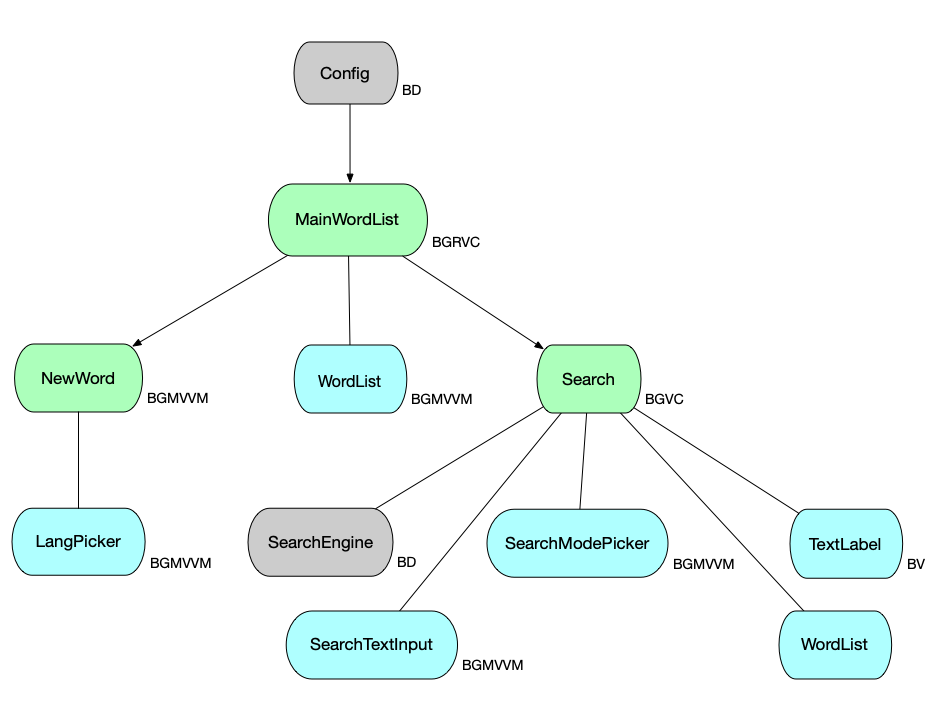
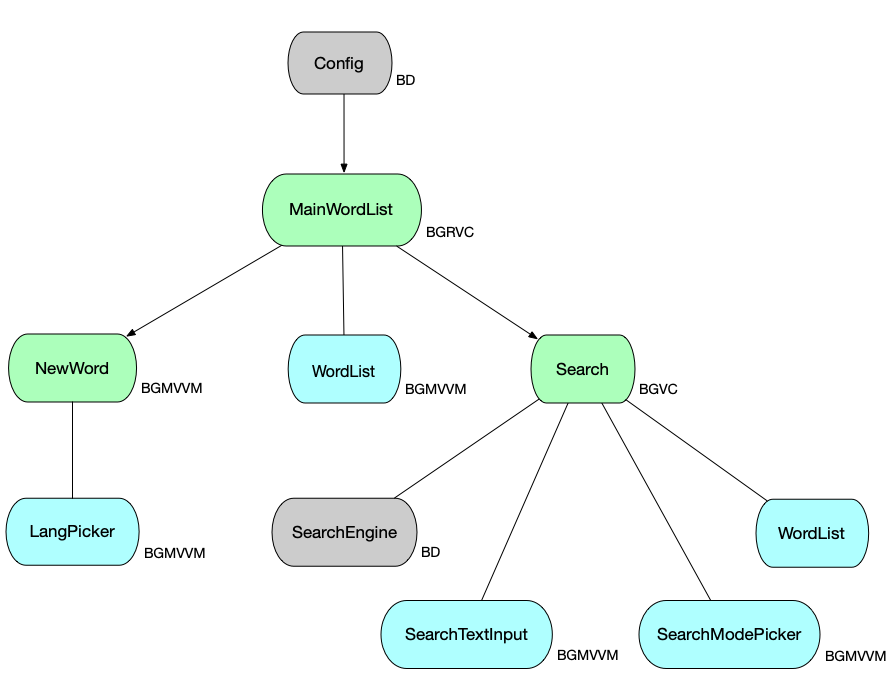
[TZ-4.5]: TextLabel from UI Feature to Design System.

diff --git a/PersonalDictionary/UI/BigFeature/Search/Builder/SearchBuilderImpl.swift b/PersonalDictionary/UI/BigFeature/Search/Builder/SearchBuilderImpl.swift
@@ -12,9 +12,9 @@ final class SearchBuilderImpl: SearchBuilder {
     private let wordListRepository: WordListRepository
     private let wordListBuilder: WordListBuilder
 
-    private let searchTextLabelParams = TextLabelParams(textColor: .darkGray,
-                                                        font: UIFont.systemFont(ofSize: 17),
-                                                        text: NSLocalizedString("No words found", comment: ""))
+    private let searchResultTextLabelParams = TextLabelParams(textColor: .darkGray,
+                                                              font: UIFont.systemFont(ofSize: 17),
+                                                              text: NSLocalizedString("No words found", comment: ""))
     private let appViewConfigs: AppViewConfigs
 
     init(appViewConfigs: AppViewConfigs,
@@ -29,6 +29,6 @@ final class SearchBuilderImpl: SearchBuilder {
         SearchGraphImpl(appViewConfigs: appViewConfigs,
                         wordListRepository: wordListRepository,
                         wordListBuilder: wordListBuilder,
-                        textLabelBuilder: TextLabelBuilderImpl(params: searchTextLabelParams))
+                        searchResultTextLabelParams: searchResultTextLabelParams)
     }
 }

diff --git a/PersonalDictionary/UI/BigFeature/Search/Graph/SearchGraphImpl.swift b/PersonalDictionary/UI/BigFeature/Search/Graph/SearchGraphImpl.swift
@@ -14,7 +14,7 @@ final class SearchGraphImpl: SearchGraph {
     init(appViewConfigs: AppViewConfigs,
          wordListRepository: WordListRepository,
          wordListBuilder: WordListBuilder,
-         textLabelBuilder: TextLabelBuilder) {
+         searchResultTextLabelParams: TextLabelParams) {
         let searchTextInputBuilder = SearchTextInputBuilderImpl()
         let searchModePickerBuilder = SearchModePickerBuilderImpl()
         let searchEngineBuilder = SearchEngineBuilderImpl(wordListRepository: wordListRepository)
@@ -23,8 +23,8 @@ final class SearchGraphImpl: SearchGraph {
                                                     searchTextInputBuilder,
                                                     searchEngineBuilder,
                                                     wordListBuilder,
-                                                    textLabelBuilder,
-                                                    searchModePickerBuilder)
+                                                    searchModePickerBuilder,
+                                                    searchResultTextLabelParams)
     }
 
     var viewController: UIViewController? {

diff --git a/PersonalDictionary/UI/BigFeature/Search/ViewController/SearchViewController.swift b/PersonalDictionary/UI/BigFeature/Search/ViewController/SearchViewController.swift
@@ -19,14 +19,14 @@ final class SearchViewController: UIViewController, SearchTextInputListener, Sea
          _ searchTextInputBuilder: SearchTextInputBuilder,
          _ searchEngineBuilder: SearchEngineBuilder,
          _ wordListBuilder: WordListBuilder,
-         _ textLabelBuilder: TextLabelBuilder,
-         _ searchModePickerBuilder: SearchModePickerBuilder) {
+         _ searchModePickerBuilder: SearchModePickerBuilder,
+         _ searchResultTextLabelParams: TextLabelParams) {
         searchEngine = searchEngineBuilder.build()
         wordListMVVM = wordListBuilder.build()
         super.init(nibName: nil, bundle: nil)
         addFeature(searchTextInputBuilder)
         addWordListViewController()
-        addSearchResultTextLabel(textLabelBuilder)
+        addSearchResultTextLabel(searchResultTextLabelParams)
         addFeature(searchModePickerBuilder)
         view.backgroundColor = appViewConfigs.appBackgroundColor
     }

diff --git a/PersonalDictionary/UI/BigFeature/Search/ViewController/SearchViewController+Layout.swift b/PersonalDictionary/UI/BigFeature/Search/ViewController/SearchViewController+Layout.swift
@@ -35,8 +35,8 @@ extension SearchViewController {
         }
     }
 
-    func addSearchResultTextLabel(_ textLabelBuilder: TextLabelBuilder) {
-        searchResultTextLabel = textLabelBuilder.build()
+    func addSearchResultTextLabel(_ params: TextLabelParams) {
+        searchResultTextLabel = TextLabel(params: params)
         searchResultTextLabel?.isHidden = true
         view.addSubview(searchResultTextLabel ?? UIView())
         searchResultTextLabel?.snp.makeConstraints { make -> Void in
